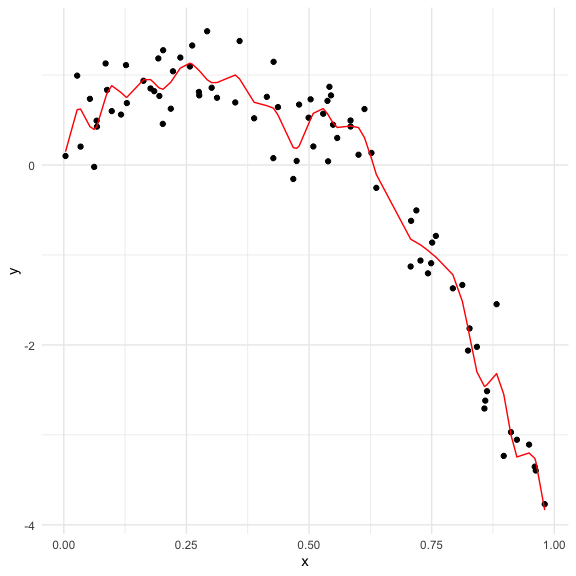
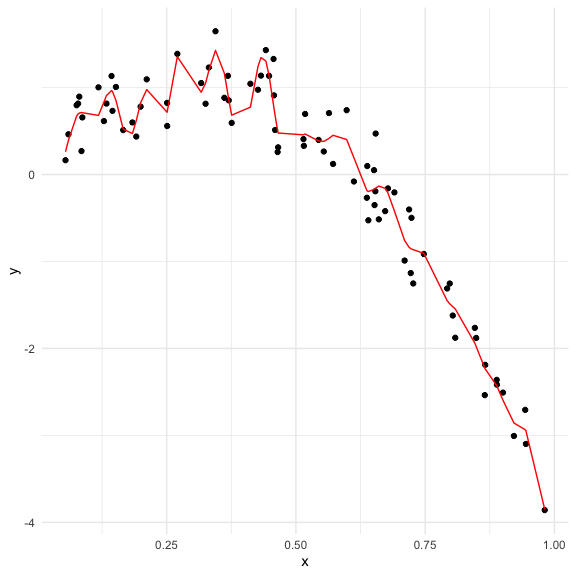
plot the cross validations we did (used modelr for cross validations)

diff --git a/cross_vaild.md b/cross_vaild.md
@@ -127,19 +127,19 @@ Look at prediction accuracy. Look at RMSE at testing data set.
 rmse(lin_mod, test_df)
 ```
 
-    ## [1] 0.7812531
+    ## [1] 0.7127341
 
 ``` r
 rmse(smooth_mod, test_df)
 ```
 
-    ## [1] 0.2981603
+    ## [1] 0.4324496
 
 ``` r
 rmse(wiggly_mod, test_df)
 ```
 
-    ## [1] 0.3097464
+    ## [1] 0.4904376
 
 Linear: very high, does not fit model at all. Wiggly: still high, not as
 bad. Smooth: the best choice. Lowest RMSE.
@@ -165,18 +165,18 @@ cv_df %>% pull(train) %>% .[[1]] %>% as.tibble()
     ## Call `lifecycle::last_warnings()` to see where this warning was generated.
 
     ## # A tibble: 79 x 3
-    ##       id     x       y
-    ##    <int> <dbl>   <dbl>
-    ##  1     1 0.218  0.625 
-    ##  2     2 0.717 -0.989 
-    ##  3     4 0.238  1.19  
-    ##  4     5 0.414  0.757 
-    ##  5     6 0.613  0.622 
-    ##  6     7 0.292  1.49  
-    ##  7     8 0.312  0.747 
-    ##  8    10 0.759 -0.789 
-    ##  9    11 0.475  0.0449
-    ## 10    12 0.162  0.936 
+    ##       id      x      y
+    ##    <int>  <dbl>  <dbl>
+    ##  1     5 0.678  -0.159
+    ##  2     6 0.0869  0.657
+    ##  3     7 0.945  -3.10 
+    ##  4     8 0.271   1.39 
+    ##  5     9 0.214   0.777
+    ##  6    10 0.0883  0.323
+    ##  7    11 0.640  -0.526
+    ##  8    12 0.944  -2.71 
+    ##  9    14 0.637  -0.267
+    ## 10    15 0.724  -0.498
     ## # … with 69 more rows
 
 ``` r
@@ -184,18 +184,18 @@ cv_df %>% pull(test) %>% .[[1]] %>% as.tibble()
 ```
 
     ## # A tibble: 21 x 3
-    ##       id      x       y
-    ##    <int>  <dbl>   <dbl>
-    ##  1     3 0.499   0.526 
-    ##  2     9 0.275   0.812 
-    ##  3    13 0.859  -2.62  
-    ##  4    16 0.358   1.38  
-    ##  5    21 0.539   0.0409
-    ##  6    24 0.0669  0.492 
-    ##  7    29 0.388   0.519 
-    ##  8    33 0.212   0.375 
-    ##  9    37 0.756  -0.929 
-    ## 10    40 0.437   0.644 
+    ##       id     x       y
+    ##    <int> <dbl>   <dbl>
+    ##  1     1 0.362  0.883 
+    ##  2     2 0.427  0.0933
+    ##  3     3 0.572  0.122 
+    ##  4     4 0.251  0.558 
+    ##  5    13 0.118  1.00  
+    ##  6    16 0.152  1.01  
+    ##  7    18 0.191  0.437 
+    ##  8    19 0.412  1.04  
+    ##  9    25 0.889 -2.42  
+    ## 10    28 0.598  0.740 
     ## # … with 11 more rows
 
 We will convert all training and testing data sets and convert to
@@ -220,6 +220,55 @@ cv_df = cv_df %>%
     rmse_linear = map2(.x = linear_mod, .y = test, ~rmse(model = .x, data = .y)),
     rmse_smooth = map2(.x = smooth_mod, .y = test, ~rmse(model = .x, data = .y)),
     rmse_wiggly = map2(.x = wiggly_mod, .y = test, ~rmse(model = .x, data = .y))
-  )
+  ) %>% 
+   unnest(rmse_linear, rmse_smooth, rmse_wiggly)
+```
+
+    ## Warning: unnest() has a new interface. See ?unnest for details.
+    ## Try `df %>% unnest(c(rmse_linear, rmse_smooth, rmse_wiggly))`, with `mutate()` if needed
+
+``` r
   #pull(rmse_linear) # this is shows all the rsme for the linear models we are cross validating.
 ```
+
+What doe these results dae about the model choices?
+
+``` r
+cv_df %>% 
+  select(starts_with("rmse")) %>% 
+  pivot_longer(
+    everything(),
+    names_to = "model",
+    values_to = "rmse",
+    names_prefix = "rmse_"
+  ) %>% 
+  ggplot(aes(x = model, y = rmse)) +
+  geom_violin()
+```
+
+<img src="cross_vaild_files/figure-gfm/unnamed-chunk-13-1.png" width="90%" />
+Among the three models we’re using, the smooth model is doing the best.
+
+Comput averages:
+
+``` r
+cv_df %>% 
+  select(starts_with("rmse")) %>% 
+  pivot_longer(
+    everything(),
+    names_to = "model",
+    values_to = "rmse",
+    names_prefix = "rmse_"
+  ) %>% 
+  group_by(model) %>% 
+  summarize(avg_rmse = mean(rmse))
+```
+
+    ## `summarise()` ungrouping output (override with `.groups` argument)
+
+    ## # A tibble: 3 x 2
+    ##   model  avg_rmse
+    ##   <chr>     <dbl>
+    ## 1 linear    0.735
+    ## 2 smooth    0.319
+    ## 3 wiggly    0.376
